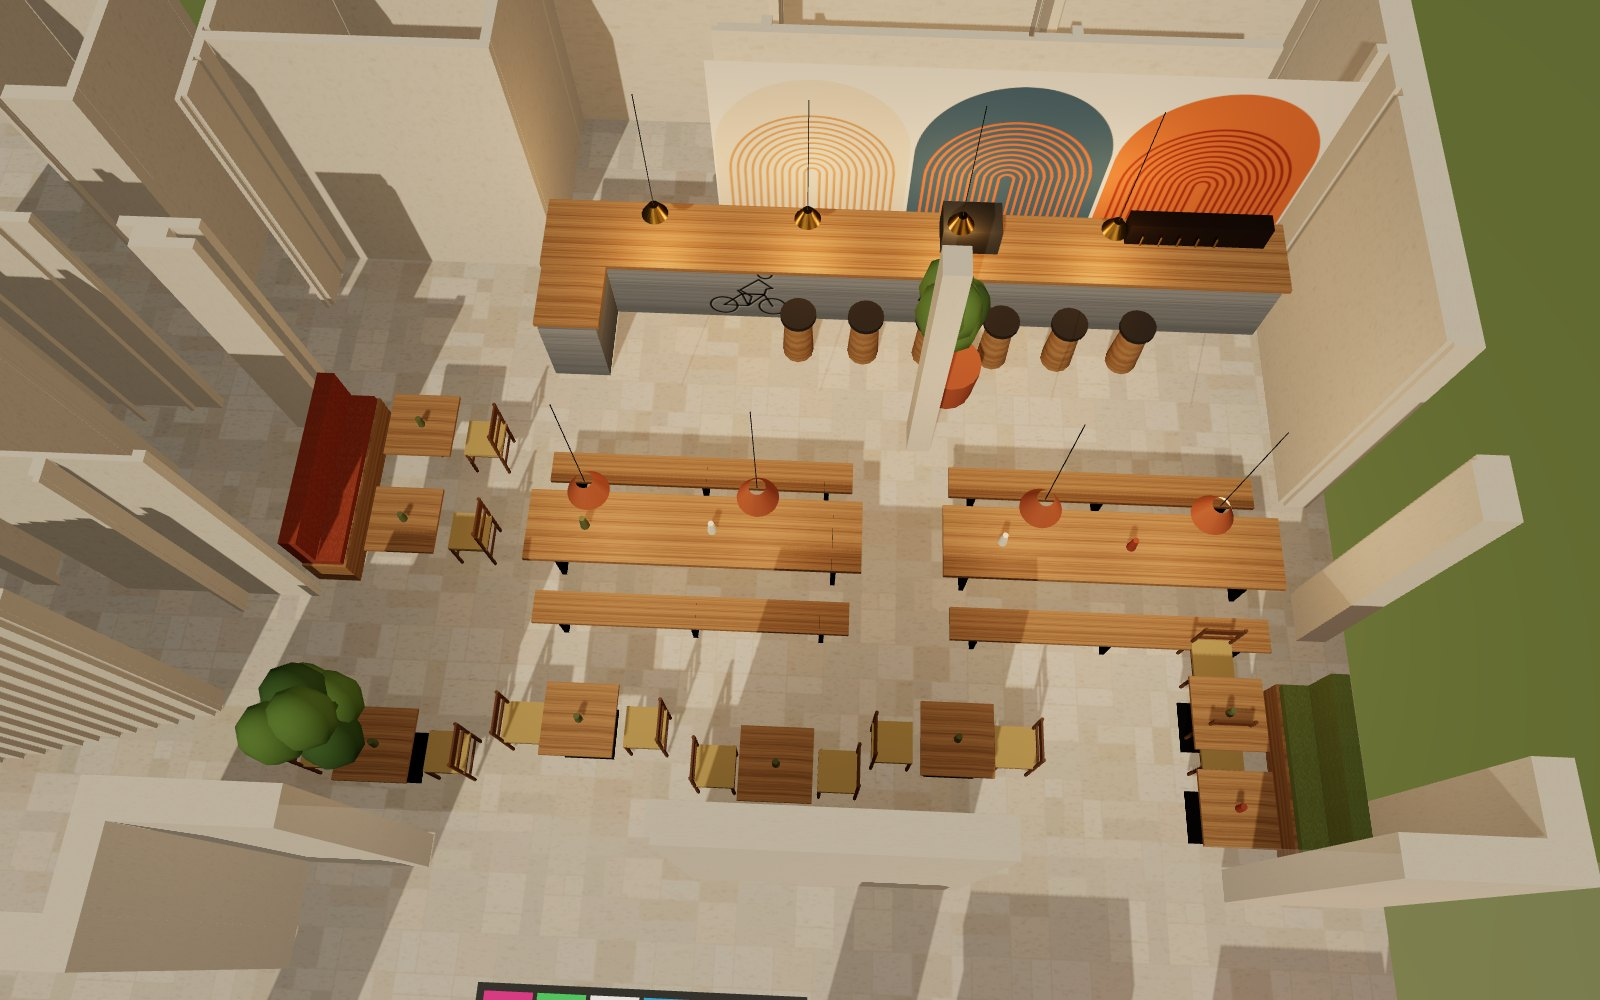
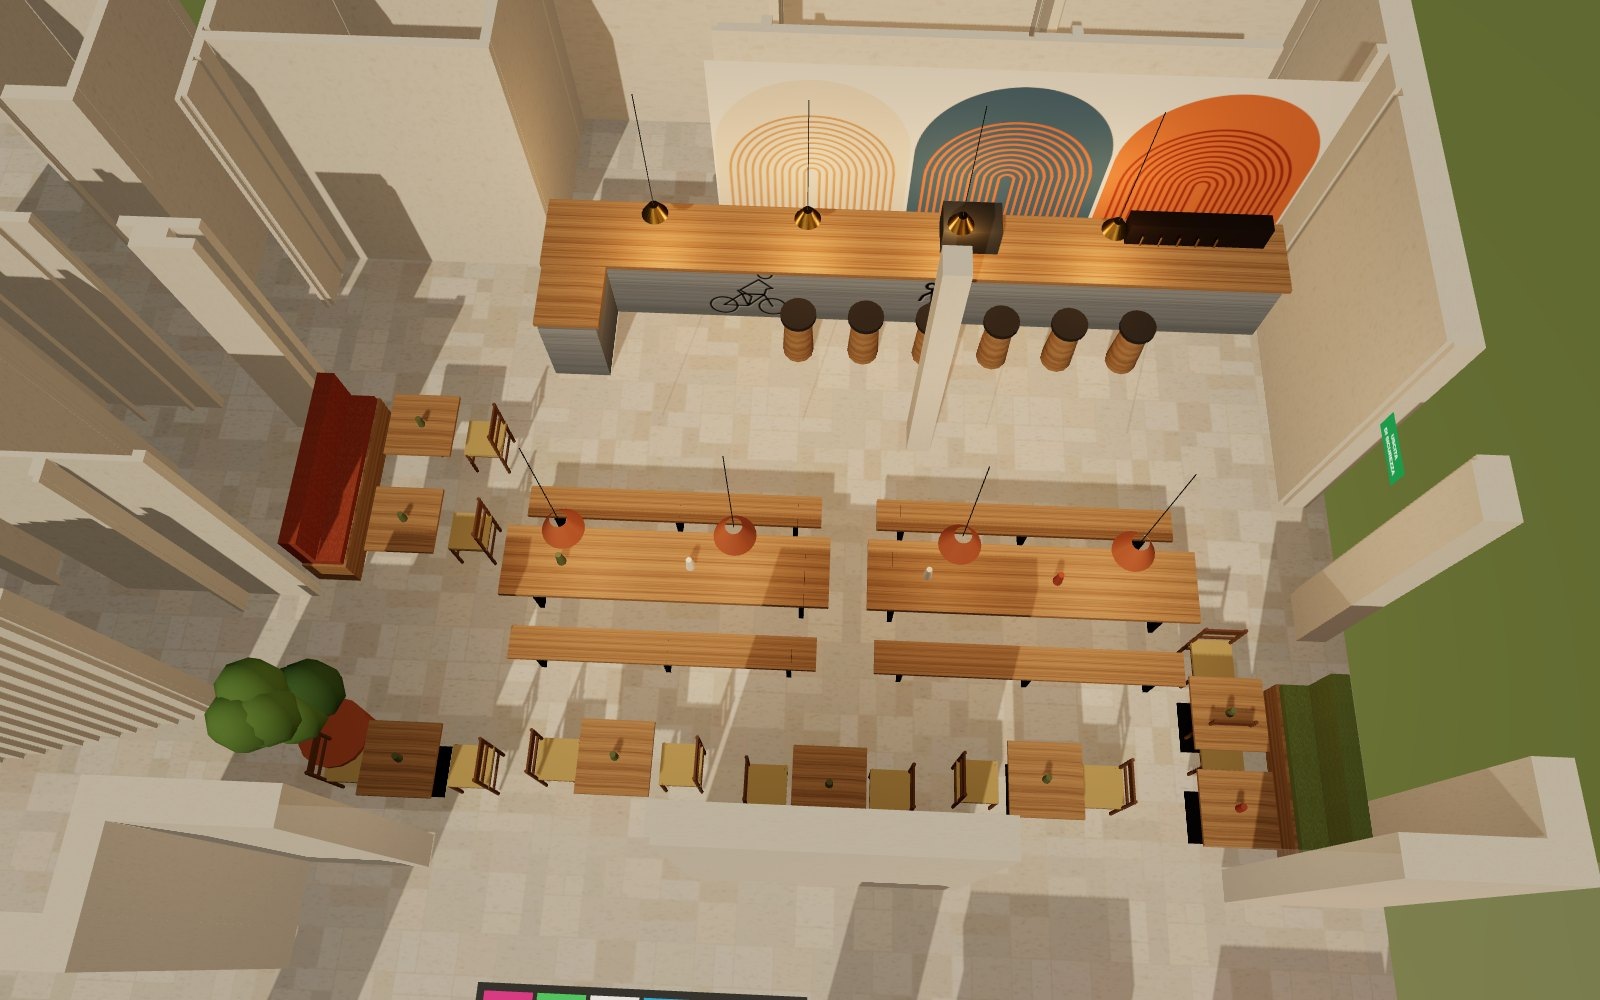
Sala: zona davanti al bar libera, tavolate spostate, porta laterale libera con uscita di sicurezza
Claude-Session: https://claude.ai/code/session_01QZXxqty357DcebAAL5Vpaf

Changed region(s): [[0.125, 0.434, 0.8125, 0.837], [0.5625, 0.248, 0.625, 0.403], [0.8438, 0.403, 0.875, 0.496]]

diff --git a/render-3d/sala-tavoli-misti/sorgente/pianoterra.js b/render-3d/sala-tavoli-misti/sorgente/pianoterra.js
@@ -375,21 +375,24 @@ else { box(P(210), P(1450), HS, HS + 0.06, P(840), P(1110), M('#e9e2d6', { trans
       for (const x of [x0 + 0.35, (x0 + x1) / 2, x1 - 0.4]) { box(x, x + 0.05, 0, 0.42, bz - 0.14, bz + 0.14, ironM); } }
     for (let x = x0 + 0.6; x < x1 - 0.4; x += 1.3) cyl(x, (z0 + z1) / 2, 0.05, 0.78, 0.98, M(tc[Math.floor(rnd() * 3)]), 12, 0.03);
     for (let x = x0 + 0.8; x < x1; x += 1.6) { cyl(x, (z0 + z1) / 2, 0.004, 1.95, HS, M('#111'), 6); const sh = new THREE.Mesh(new THREE.CylinderGeometry(0.08, 0.2, 0.25, 24, 1, true), M('#b9673d', { side: THREE.DoubleSide, roughness: 0.5 })); sh.position.set(x, 1.85, (z0 + z1) / 2); scene.add(sh); const l = new THREE.PointLight('#ffc98a', 1.0, 0, 2); l.position.set(x, 1.7, (z0 + z1) / 2); scene.add(l); } };
-  longT(790, 1060, 560, 620); longT(1125, 1395, 560, 620);  // two equal long tables, aligned
+  longT(775, 1035, 592, 650); longT(1065, 1325, 592, 650);  // two equal long tables, moved away from the bar and clear of the side door
+  // the side door on the east wall stays free: emergency exit sign + clear floor path
+  { const sg = new THREE.Mesh(new THREE.PlaneGeometry(0.6, 0.25), new THREE.MeshBasicMaterial({ map: cv(240, 100, (g, w, h) => { g.fillStyle = '#1c9b4a'; g.fillRect(0, 0, w, h); g.fillStyle = '#fff'; g.font = 'bold 26px Arial'; g.textAlign = 'center'; g.fillText('USCITA', w / 2, 42); g.fillText('DI SICUREZZA', w / 2, 78); }), toneMapped: false }));
+    sg.position.set(P(1420) - 0.02, 2.55, P(562)); sg.rotation.y = -Math.PI / 2; scene.add(sg); }
   const roundT = (px, pz) => { const x = P(px), z = P(pz); roundTable(x, z, 0.55, 0.75, marble); for (let i = 0; i < 4; i++) { const a = i * Math.PI / 2 + Math.PI / 4; straw(x + Math.cos(a) * 0.8, z + Math.sin(a) * 0.8, Math.atan2(-Math.cos(a), -Math.sin(a)), 0); }
     cyl(x, z, 0.004, 1.9, HS, M('#111'), 6); const s = new THREE.Mesh(new THREE.SphereGeometry(0.42, 24, 12, 0, Math.PI * 2, 0, Math.PI / 2), T(texStraw, { side: THREE.DoubleSide })); s.scale.y = 0.5; s.position.set(x, 1.85, z); scene.add(s); const l = new THREE.PointLight('#ffcf94', 1.2, 0, 2); l.position.set(x, 1.7, z); scene.add(l); };
   // round white tables removed: more space in front of the bar
   const smallT = (px, pz, rotChairs) => { const x = P(px), z = P(pz); box(x - 0.35, x + 0.35, 0.72, 0.76, z - 0.35, z + 0.35, oakM); cyl(x, z, 0.04, 0, 0.72, ironM, 8); box(x - 0.25, x + 0.25, 0, 0.02, z - 0.25, z + 0.25, ironM);
     if (rotChairs) { straw(x - 0.6, z, Math.PI / 2, 0); straw(x + 0.6, z, -Math.PI / 2, 0); } else { straw(x, z - 0.6, 0, 0); }
     cyl(x, z, 0.04, 0.76, 0.9, M(tc[Math.floor(rnd() * 3)]), 10, 0.03); };
-  for (const [px, pz] of [[700, 770], [850, 745], [1000, 772], [1135, 748]]) smallT(px, pz, true);
+  for (const [px, pz] of [[720, 780], [880, 772], [1040, 785], [1200, 775]]) smallT(px, pz, true);
   // banquette along the east wall with two little tables
   const bq = boucle('#7f8f4e'); box(P(1388), P(1424), 0, 0.45, P(690), P(820), oakM); box(P(1390), P(1424), 0.45, 0.55, P(692), P(818), bq); box(P(1410), P(1424), 0.55, 1.05, P(692), P(818), bq);
   smallT(1340, 720, false); smallT(1340, 790, false);
   // second banquette on the west wall (terracotta velvet), two little tables with a chair facing it
   { const bq2 = boucle('#a8502c'); box(P(604), P(640), 0, 0.45, P(470), P(625), oakM); box(P(604), P(638), 0.45, 0.55, P(472), P(623), bq2); box(P(604), P(618), 0.55, 1.05, P(472), P(623), bq2);
     for (const pz of [505, 590]) { const x = P(690), z = P(pz); box(x - 0.35, x + 0.35, 0.72, 0.76, z - 0.35, z + 0.35, oakM); cyl(x, z, 0.04, 0, 0.72, ironM, 8); straw(x + 0.6, z, -Math.PI / 2, 0); cyl(x, z, 0.04, 0.76, 0.9, M('#6f7448'), 10, 0.03); } }
-  for (const [x, z] of [[P(1135), P(418)], [P(660), P(760)]]) { cyl(x, z, 0.3, 0, 0.55, M('#b9673d'), 16, 0.34); for (let i = 0; i < 7; i++) { const lf = new THREE.Mesh(new THREE.SphereGeometry(0.28, 8, 6), M(i % 2 ? '#4f6e3a' : '#6a8a45')); lf.scale.y = 1.5; lf.position.set(x + (rnd() - 0.5) * 0.5, 1.0 + rnd() * 0.9, z + (rnd() - 0.5) * 0.5); scene.add(lf); } } }
+  for (const [x, z] of [[P(660), P(760)]]) { cyl(x, z, 0.3, 0, 0.55, M('#b9673d'), 16, 0.34); for (let i = 0; i < 7; i++) { const lf = new THREE.Mesh(new THREE.SphereGeometry(0.28, 8, 6), M(i % 2 ? '#4f6e3a' : '#6a8a45')); lf.scale.y = 1.5; lf.position.set(x + (rnd() - 0.5) * 0.5, 1.0 + rnd() * 0.9, z + (rnd() - 0.5) * 0.5); scene.add(lf); } } }
 // PORTICO as lounge: few long floor cushions, dance floor flush with the floor, piano, fireplace
 { const pm = [boucle('#a3262a'), boucle('#2f4a6e'), boucle('#1f5c5a'), boucle('#d98a2b')];
   for (let i = 0; i < 4; i++) { const x0 = P(240) + i * 1.45; box(x0, x0 + 1.4, 0, 0.22, P(1000), P(1060), pm[i % 4]); box(x0, x0 + 1.4, 0.22, 0.6, P(1052), P(1068), pm[(i + 1) % 4]); }
@@ -405,7 +408,7 @@ const sun = new THREE.DirectionalLight('#fff0d8', AERIAL ? 2.4 : 1.4); sun.posit
 sun.castShadow = true; sun.shadow.mapSize.set(4096, 4096); Object.assign(sun.shadow.camera, { left: -16, right: 16, top: 16, bottom: -16, near: 1, far: 60 }); sun.shadow.bias = -0.0005; scene.add(sun);
 if (!AERIAL) for (const [x, z] of [[11, 7], [16, 7], [11, 9], [16, 9]]) { const l = new THREE.PointLight('#ffe2b8', 1.6, 0, 2); l.position.set(x, 3.0, z); scene.add(l); }
 scene.background = new THREE.Color('#2b3a2f');
-const CAMS = { panche: [[17.0, 1.6, 8.8], [11.5, 0.6, 7.0], 64], sala2: [[11.6, 1.75, 5.0], [15.5, 0.9, 9.8], 68], salatop: [[13.0, 11.5, 11.5], [12.8, 0, 6.8], 48], alto: [[9.3, 27, 17.5], [9.3, 0, 7.4], 42], bar: [[14.2, 1.6, 9.6], [14.2, 1.4, 3.6], 68], sala: [[17.6, 1.7, 9.9], [9.5, 1.1, 5.0], 66], portico: [[3.6, 1.6, 13.6], [14, 0.9, 12.6], 64] };
+const CAMS = { panche: [[17.0, 1.6, 8.8], [11.5, 0.6, 7.0], 64], uscita: [[11.0, 1.7, 5.4], [18.2, 1.2, 7.2], 64], sala2: [[11.6, 1.75, 5.0], [15.5, 0.9, 9.8], 68], salatop: [[13.0, 11.5, 11.5], [12.8, 0, 6.8], 48], alto: [[9.3, 27, 17.5], [9.3, 0, 7.4], 42], bar: [[14.2, 1.6, 9.6], [14.2, 1.4, 3.6], 68], sala: [[17.6, 1.7, 9.9], [9.5, 1.1, 5.0], 66], portico: [[3.6, 1.6, 13.6], [14, 0.9, 12.6], 64] };
 const k = CAMS[VIEW] || CAMS.alto;
 const camera = new THREE.PerspectiveCamera(k[2], W / H, 0.05, 200); camera.position.set(...k[0]); camera.lookAt(...k[1]);
 renderer.render(scene, camera);
